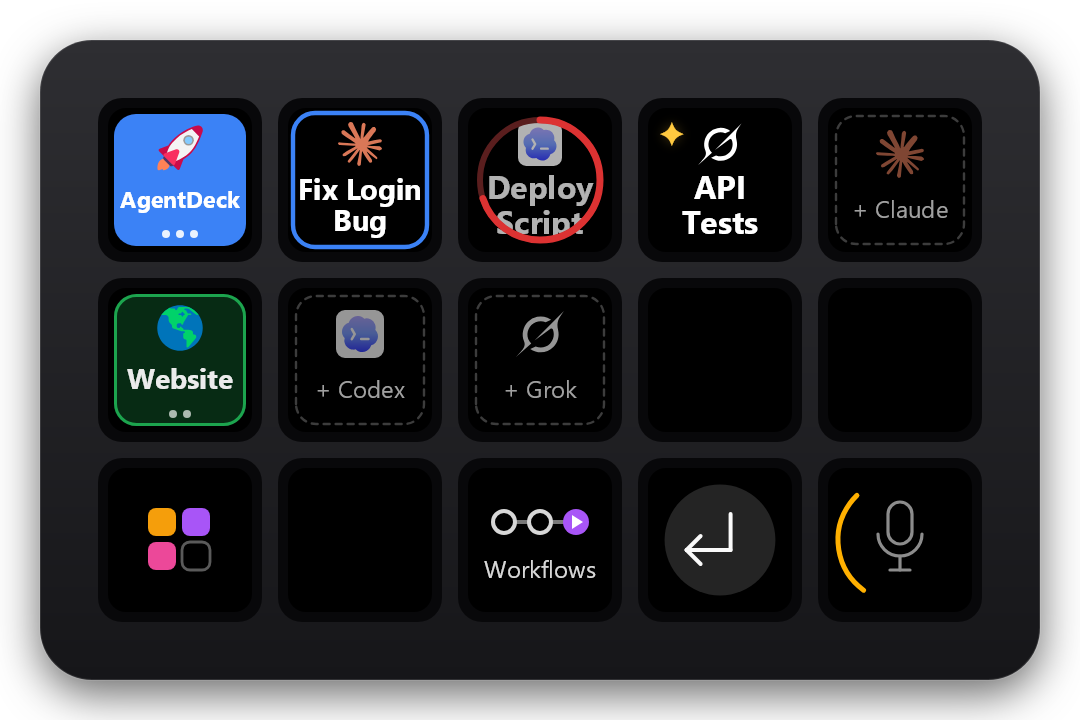
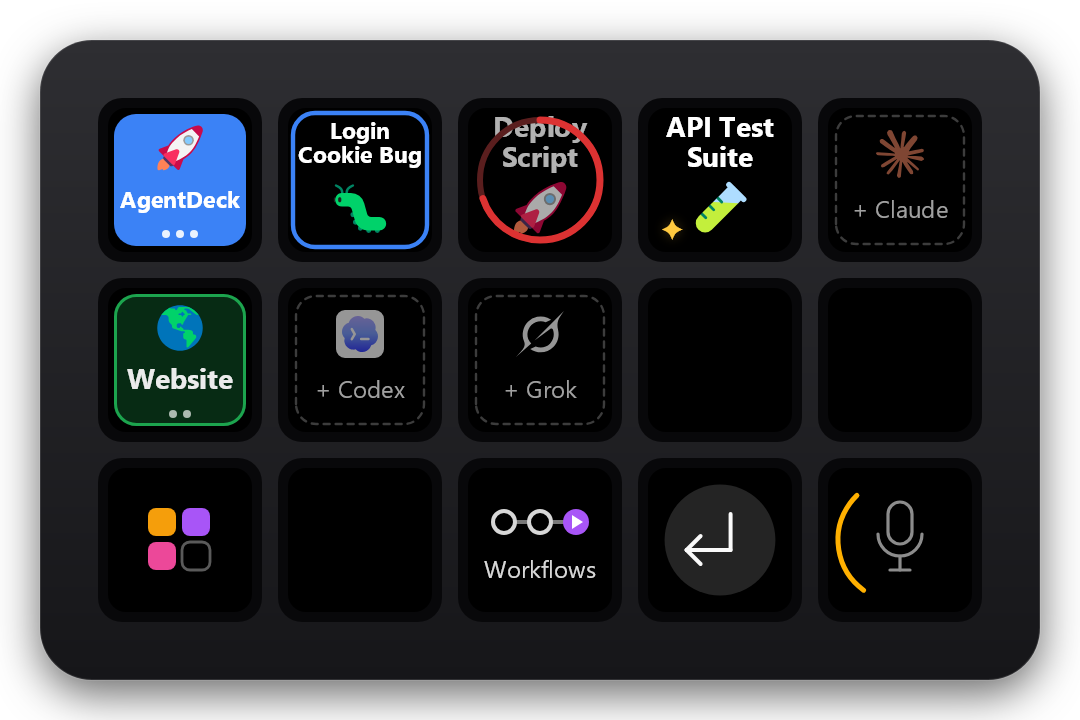
AgentDeck 1.1.0: docs and screenshots
README and ARCHITECTURE cover session titles and icons (with what screen
text leaves the machine), the git branch display, the mic audio cues and
TYPESAFE_AI_API_KEY. Screenshots regenerated with the new deck keys and
branch pill.

Changed region(s): [[0.4278, 0.1528, 0.55, 0.3361], [0.275, 0.1528, 0.3972, 0.3361], [0.6111, 0.1528, 0.7333, 0.3361]]

diff --git a/README.md b/README.md
@@ -25,7 +25,8 @@ works exactly as it does in your usual terminal. AgentDeck only adds a thin laye
 
 - **Sessions grouped by project:** every project is a folder with its own tabs, split panes and agents; switch projects and they're right where you left them.
 - **Mix agents freely:** Claude, Codex, Grok and plain shells side by side, each opened in the project folder in one press.
-- **See every session at once:** live labels, busy dots and ✦ finished alerts in the tabs and on the Stream Deck, so you know which agent needs you.
+- **See every session at once:** AI titles and icons that follow each conversation, busy dots and ✦ finished alerts in the tabs and on the Stream Deck, so you know which agent needs you.
+- **Know where you are:** each project's current git branch, in the sidebar and the tab bar, updated as you check out.
 - **Jump anywhere:** one key press brings any session to the front, in any project.
 
 ## 🎙 System-wide voice dictation: a Wispr Flow alternative
@@ -38,6 +39,7 @@ Same flow as Wispr Flow: press a key, talk, press again, clean text appears. **W
 - **Targeted:** dictation started in an AgentDeck terminal lands in *that* terminal (and is submitted) even if you've switched apps.
 - **Launch and talk:** a deck *+ Claude / + Codex / + Grok* key opens the agent and starts dictating into it immediately; the text waits until the agent is ready.
 - **Custom dictionary:** your names and jargon are sent to Soniox as context and to the cleanup, which fixes near-misses (*sonics* → *Soniox*).
+- **Audio cues:** a soft rising pop when the mic opens, the same pop falling when it closes.
 - **Enter** mid-dictation = stop, paste, submit. **Double-tap** the mic = cancel.
 - **Safety net:** last 10 transcripts in *Recent dictations*; a *Paste again* key for 10 s after each one.
 
@@ -48,7 +50,9 @@ Same flow as Wispr Flow: press a key, talk, press again, clean text appears. **W
 | **Projects** | Each project is a folder with its own icon, color, terminals and workflows. |
 | **Terminals** | Real ConPTY terminals (same as Windows Terminal) rendered with xterm.js/WebGL: tabs (drag to reorder), split panes, 24-bit color, color emoji. Drop files on a terminal to paste their paths. Agent TUIs run unchanged. |
 | **Agents** | One press/click/shortcut opens Claude, Codex or Grok in the project folder. |
-| **Stream Deck** | Projects, live sessions (logo + 2-word label), launchers, workflows, Enter, mic. Tap to jump, hold 0.8 s to close. No Elgato software needed. |
+| **Stream Deck** | Projects, live sessions (title + icon), launchers, workflows, Enter, mic. Tap to jump, hold 0.8 s to close. No Elgato software needed. |
+| **Session titles & icons** | Every 30 s, terminals whose screen changed get a 2-4 word title (`gpt-6-luna`) and an emoji picked by the TypeSafe Jev classifier from ~160 work-themed icons. Idle terminals cost nothing. |
+| **Git branch** | The selected project's branch in the tab bar; every project's branch in the sidebar. |
 | **Live status** | Working tabs show a spinning ring and shimmer; when an agent goes quiet after working: soft pop + ✦ on its key, tab and project. |
 | **Workflows** | Saved prompt + agent + model + thinking level, per project. One press opens a tab with the agent already working. |
 | **Model discovery** | Models and thinking levels are read from the CLIs at runtime, so new ones appear without an update. |
@@ -83,7 +87,8 @@ No SDK? Download `AgentDeck-*-win-x64.zip` from [Releases](https://github.com/Em
 | Env var | For |
 |---|---|
 | `SONIOX_API_KEY` | Dictation (required for dictation) |
-| `OPENAI_API_KEY` | Transcript cleanup and session labels (optional) |
+| `OPENAI_API_KEY` | Transcript cleanup and session titles (optional) |
+| `TYPESAFE_AI_API_KEY` | Session icons on the Stream Deck (optional) |
 
 Agent CLIs on `PATH`: `claude`, `codex`, `grok`.
 
@@ -99,7 +104,7 @@ Agent CLIs on `PATH`: `claude`, `codex`, `grok`.
 
 ## Privacy
 
-Audio goes to Soniox only while the mic is on. Transcripts, and for untitled sessions your last few typed lines, go to OpenAI if `OPENAI_API_KEY` is set. Transcripts are stored locally (`%APPDATA%\AgentDeck`); logs contain timings only.
+Audio goes to Soniox only while the mic is on. Transcripts, and for untitled sessions your last few typed lines, go to OpenAI if `OPENAI_API_KEY` is set. To title and icon a terminal, the last 80 lines of its screen go to OpenAI and TypeSafe (whichever keys are set) every 30 s while it's changing. Transcripts are stored locally (`%APPDATA%\AgentDeck`); logs contain timings and session titles, never transcript or terminal text.
 
 ## More
 

diff --git a/docs/ARCHITECTURE.md b/docs/ARCHITECTURE.md
@@ -39,6 +39,11 @@ touches the OS: pseudo consoles, the Stream Deck, the microphone, the global hot
 | `saveWorkflow`, `runWorkflow`, `deleteWorkflow`, `refreshAgentOptions` | `workflows`, `agentOptions`, `transcripts` |
 | `openUrl`, `openFolder`, `addProject` | `pasteInto`, `projectDialog`, `workflowEditor` |
 | `saveDictionary`, `tabOrder`, `dropFiles` (+ `File` objects) | `dictionary`, `working` |
+| `screen` (a terminal's last 80 rendered lines, every 30 s while changing) | `state` also carries each project's git branch |
+
+`screen` feeds `SessionAnalyzer`: one `gpt-6-luna` call titles the terminal (2-4 words, kept unless the work
+moved on) and one TypeSafe Jev `choice` picks its icon from `SessionIcons` (a new icon must beat the current
+one by 15 points, so near-ties don't flicker). Branches come from reading `.git/HEAD` every 2 s (`GitBranch`).
 
 Dropped files reach the host via `postMessageWithAdditionalObjects`, which exposes each file's real path
 (`CoreWebView2File.Path`); the host quotes the paths and pastes them into that terminal.
@@ -57,7 +62,8 @@ without the app, and is how the README screenshots are made.
 - Modes: normal (projects / sessions / launchers), project picker (more than three projects) and the workflow
   list. Both overlays close after 10 idle seconds.
 - `Deck/KeyArt.cs` draws every key with SkiaSharp at 72×72: fitted, wrapped bold labels, SVG agent logos, and
-  Fluent Emoji icons rendered via Svg.Skia.
+  Fluent Emoji icons rendered via Svg.Skia. Session keys put the title on top and the session's icon beneath
+  (the agent logo until one is picked).
 
 ## Dictation
 
@@ -104,5 +110,5 @@ Stream Deck renderer.
 | What | Where |
 |---|---|
 | Projects, workflows, last 10 transcripts | `%APPDATA%\AgentDeck\*.json` |
-| Log (timings only, no transcript text) | `%LOCALAPPDATA%\AgentDeck\agentdeck.log` |
+| Log (timings and session titles, no transcript or terminal text) | `%LOCALAPPDATA%\AgentDeck\agentdeck.log` |
 | Installed app | `%LOCALAPPDATA%\Programs\AgentDeck` (self-contained, so .NET updates can't break it) |
